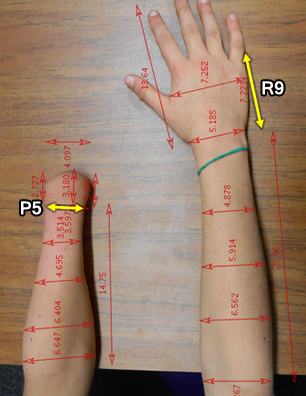
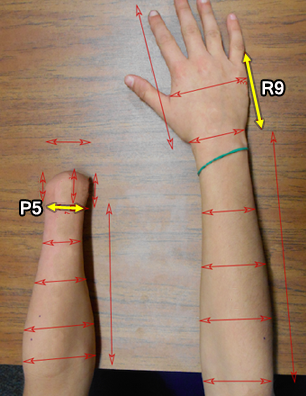
Removing all references of cm, changing to mm

diff --git a/index.php b/index.php
@@ -180,30 +180,30 @@ $html = <<<HTML
    <div class="tab-pane" id="left">
 
      <fieldset>
-     <div class="input-group"><span class="input-group-addon">L1</span> <input id="v_l1" type="number" step="any" min="0" name="Left1" value='{$_SESSION['Left1']}' id="a1" placeholder="Length of Elbow Joint" class="form-control"><span class="input-group-addon">cm</span></div>
-     <div class="input-group"><span class="input-group-addon">L2</span> <input id="v_l2" type="number" step="any" min="0" name="Left2" value='{$_SESSION['Left2']}'  placeholder="Distance between lateral and medial side of the forearm proximal to the elbow joint" class="form-control"><span class="input-group-addon">cm</span></div>
-     <div class="input-group"><span class="input-group-addon">L3</span> <input id="v_l3" type="number" step="any" min="0" name="Left3" value='{$_SESSION['Left3']}'  placeholder="Distance between lateral and medial side of the middle forearm" class="form-control"><span class="input-group-addon">cm</span></div>
-     <div class="input-group"><span class="input-group-addon">L4</span> <input id="v_l4" type="number" step="any" min="0" name="Left4" value='{$_SESSION['Left4']}'  placeholder="Distance between lateral and medial side of the forearm proximal to the wrist" class="form-control"><span class="input-group-addon">cm</span></div>
-     <div class="input-group"><span class="input-group-addon">L5</span> <input id="v_l5" type="number" step="any" min="0" name="Left5" value='{$_SESSION['Left5']}'  placeholder="Wrist Joint distance from lateral to medial side" class="form-control"><span class="input-group-addon">cm</span></div>
-     <div class="input-group"><span class="input-group-addon">L6</span> <input id="v_l6" type="number" step="any" min="0" name="Left6" value='{$_SESSION['Left6']}'  placeholder="Distance from wrist to distal end of finger on thumb side (Lateral)" class="form-control"><span class="input-group-addon">cm</span></div>
-     <div class="input-group"><span class="input-group-addon">L7</span> <input id="v_l7" type="number" step="any" min="0" name="Left7" value='{$_SESSION['Left7']}'  placeholder="Distance from wrist to distal middle end of effected hand" class="form-control"><span class="input-group-addon">cm</span></div>
-     <div class="input-group"><span class="input-group-addon">L8</span> <input id="v_l8" type="number" step="any" min="0" name="Left8" value='{$_SESSION['Left8']}'  placeholder="Distance from Lateral and Medial sides of the distal part of the hand" class="form-control"><span class="input-group-addon">cm</span></div>
-     <div class="input-group"><span class="input-group-addon">L9</span> <input id="v_l9" type="number" step="any" min="0" name="Left9" value='{$_SESSION['Left9']}'  placeholder="Distance from wrist to proximal end of 1st phalange on pinky side (Medial)" class="form-control"><span class="input-group-addon">cm</span></div>
-     <div class="input-group"><span class="input-group-addon">L10</span> <input id="v_l10" type="number" step="any" min="0" name="Left10" value='{$_SESSION['Left10']}'  placeholder="Length of Elbow to wrist joint" class="form-control"><span class="input-group-addon">cm</span></div>
+     <div class="input-group"><span class="input-group-addon">L1</span> <input id="v_l1" type="number" step="any" min="0" name="Left1" value='{$_SESSION['Left1']}' id="a1" placeholder="Length of Elbow Joint" class="form-control"><span class="input-group-addon">mm</span></div>
+     <div class="input-group"><span class="input-group-addon">L2</span> <input id="v_l2" type="number" step="any" min="0" name="Left2" value='{$_SESSION['Left2']}'  placeholder="Distance between lateral and medial side of the forearm proximal to the elbow joint" class="form-control"><span class="input-group-addon">mm</span></div>
+     <div class="input-group"><span class="input-group-addon">L3</span> <input id="v_l3" type="number" step="any" min="0" name="Left3" value='{$_SESSION['Left3']}'  placeholder="Distance between lateral and medial side of the middle forearm" class="form-control"><span class="input-group-addon">mm</span></div>
+     <div class="input-group"><span class="input-group-addon">L4</span> <input id="v_l4" type="number" step="any" min="0" name="Left4" value='{$_SESSION['Left4']}'  placeholder="Distance between lateral and medial side of the forearm proximal to the wrist" class="form-control"><span class="input-group-addon">mm</span></div>
+     <div class="input-group"><span class="input-group-addon">L5</span> <input id="v_l5" type="number" step="any" min="0" name="Left5" value='{$_SESSION['Left5']}'  placeholder="Wrist Joint distance from lateral to medial side" class="form-control"><span class="input-group-addon">mm</span></div>
+     <div class="input-group"><span class="input-group-addon">L6</span> <input id="v_l6" type="number" step="any" min="0" name="Left6" value='{$_SESSION['Left6']}'  placeholder="Distance from wrist to distal end of finger on thumb side (Lateral)" class="form-control"><span class="input-group-addon">mm</span></div>
+     <div class="input-group"><span class="input-group-addon">L7</span> <input id="v_l7" type="number" step="any" min="0" name="Left7" value='{$_SESSION['Left7']}'  placeholder="Distance from wrist to distal middle end of effected hand" class="form-control"><span class="input-group-addon">mm</span></div>
+     <div class="input-group"><span class="input-group-addon">L8</span> <input id="v_l8" type="number" step="any" min="0" name="Left8" value='{$_SESSION['Left8']}'  placeholder="Distance from Lateral and Medial sides of the distal part of the hand" class="form-control"><span class="input-group-addon">mm</span></div>
+     <div class="input-group"><span class="input-group-addon">L9</span> <input id="v_l9" type="number" step="any" min="0" name="Left9" value='{$_SESSION['Left9']}'  placeholder="Distance from wrist to proximal end of 1st phalange on pinky side (Medial)" class="form-control"><span class="input-group-addon">mm</span></div>
+     <div class="input-group"><span class="input-group-addon">L10</span> <input id="v_l10" type="number" step="any" min="0" name="Left10" value='{$_SESSION['Left10']}'  placeholder="Length of Elbow to wrist joint" class="form-control"><span class="input-group-addon">mm</span></div>
     </fieldset>
    </div>
    <div class="tab-pane" id="right">
     <fieldset>
-     <div class="input-group"><span class="input-group-addon">R1</span> <input id="v_r1" type="number" step="any" min="0" name="Right1" value='{$_SESSION['Right1']}'  placeholder="Length of Elbow Joint" class="form-control"><span class="input-group-addon">cm</span></div>
-     <div class="input-group"><span class="input-group-addon">R2</span> <input id="v_r2" type="number" step="any" min="0" name="Right2" value='{$_SESSION['Right2']}'  placeholder="Distance between lateral and medial side of the forearm proximal to the elbow joint" class="form-control"><span class="input-group-addon">cm</span></div>
-     <div class="input-group"><span class="input-group-addon">R3</span> <input id="v_r3" type="number" step="any" min="0" name="Right3" value='{$_SESSION['Right3']}'  placeholder="Distance between lateral and medial side of the middle forearm" class="form-control"><span class="input-group-addon">cm</span></div>
-     <div class="input-group"><span class="input-group-addon">R4</span> <input id="v_r4" type="number" step="any" min="0" name="Right4" value='{$_SESSION['Right4']}'  placeholder="Distance between lateral and medial side of the forearm proximal to the wrist" class="form-control"><span class="input-group-addon">cm</span></div>
-      <div class="input-group"><span class="input-group-addon">R5</span> <input id="v_r5" type="number" step="any" min="0" name="Right5" value='{$_SESSION['Right5']}'  placeholder="Wrist Joint distance from lateral to medial side" class="form-control"><span class="input-group-addon">cm</span></div>
-      <div class="input-group"><span class="input-group-addon">R6</span> <input id="v_r6" type="number" step="any" min="0" name="Right6" value='{$_SESSION['Right6']}'  placeholder="Distance from wrist to distal end of finger on thumb side (Lateral)" class="form-control"><span class="input-group-addon">cm</span></div>
-      <div class="input-group"><span class="input-group-addon">R7</span> <input id="v_r7" type="number" step="any" min="0" name="Right7" value='{$_SESSION['Right7']}'  placeholder="Distance from wrist to distal middle end of effected hand" class="form-control"><span class="input-group-addon">cm</span></div>
-      <div class="input-group"><span class="input-group-addon">R8</span> <input id="v_r8" type="number" step="any" min="0" name="Right8" value='{$_SESSION['Right8']}'  placeholder="Distance from Lateral and Medial sides of the distal part of the hand" class="form-control"><span class="input-group-addon">cm</span></div>
-      <div class="input-group"><span class="input-group-addon">R9</span> <input id="v_r9" type="number" step="any" min="0" name="Right9" value='{$_SESSION['Right9']}'  placeholder="Distance from wrist to proximal end of 1st phalange on pinky side (Medial)" class="form-control"><span class="input-group-addon">cm</span></div>
-     <div class="input-group"><span class="input-group-addon">R10</span> <input id="v_r10" type="number" step="any" min="0" name="Right10" value='{$_SESSION['Right10']}'  placeholder="Length of Elbow to wrist joint" class="form-control"><span class="input-group-addon">cm</span></div>
+     <div class="input-group"><span class="input-group-addon">R1</span> <input id="v_r1" type="number" step="any" min="0" name="Right1" value='{$_SESSION['Right1']}'  placeholder="Length of Elbow Joint" class="form-control"><span class="input-group-addon">mm</span></div>
+     <div class="input-group"><span class="input-group-addon">R2</span> <input id="v_r2" type="number" step="any" min="0" name="Right2" value='{$_SESSION['Right2']}'  placeholder="Distance between lateral and medial side of the forearm proximal to the elbow joint" class="form-control"><span class="input-group-addon">mm</span></div>
+     <div class="input-group"><span class="input-group-addon">R3</span> <input id="v_r3" type="number" step="any" min="0" name="Right3" value='{$_SESSION['Right3']}'  placeholder="Distance between lateral and medial side of the middle forearm" class="form-control"><span class="input-group-addon">mm</span></div>
+     <div class="input-group"><span class="input-group-addon">R4</span> <input id="v_r4" type="number" step="any" min="0" name="Right4" value='{$_SESSION['Right4']}'  placeholder="Distance between lateral and medial side of the forearm proximal to the wrist" class="form-control"><span class="input-group-addon">mm</span></div>
+      <div class="input-group"><span class="input-group-addon">R5</span> <input id="v_r5" type="number" step="any" min="0" name="Right5" value='{$_SESSION['Right5']}'  placeholder="Wrist Joint distance from lateral to medial side" class="form-control"><span class="input-group-addon">mm</span></div>
+      <div class="input-group"><span class="input-group-addon">R6</span> <input id="v_r6" type="number" step="any" min="0" name="Right6" value='{$_SESSION['Right6']}'  placeholder="Distance from wrist to distal end of finger on thumb side (Lateral)" class="form-control"><span class="input-group-addon">mm</span></div>
+      <div class="input-group"><span class="input-group-addon">R7</span> <input id="v_r7" type="number" step="any" min="0" name="Right7" value='{$_SESSION['Right7']}'  placeholder="Distance from wrist to distal middle end of effected hand" class="form-control"><span class="input-group-addon">mm</span></div>
+      <div class="input-group"><span class="input-group-addon">R8</span> <input id="v_r8" type="number" step="any" min="0" name="Right8" value='{$_SESSION['Right8']}'  placeholder="Distance from Lateral and Medial sides of the distal part of the hand" class="form-control"><span class="input-group-addon">mm</span></div>
+      <div class="input-group"><span class="input-group-addon">R9</span> <input id="v_r9" type="number" step="any" min="0" name="Right9" value='{$_SESSION['Right9']}'  placeholder="Distance from wrist to proximal end of 1st phalange on pinky side (Medial)" class="form-control"><span class="input-group-addon">mm</span></div>
+     <div class="input-group"><span class="input-group-addon">R10</span> <input id="v_r10" type="number" step="any" min="0" name="Right10" value='{$_SESSION['Right10']}'  placeholder="Length of Elbow to wrist joint" class="form-control"><span class="input-group-addon">mm</span></div>
     </fieldset>
    </div>
 
@@ -229,13 +229,13 @@ $html = <<<HTML
      <input id="v_r10" type="hidden" step="any" min="0" name="Right10" value='{$_SESSION['Right10']}'>
 
 
-     <div class="input-group"><span class="input-group-addon">P5</span> <input id="v_l5" type="number" step="any" min="0" name="Left5" value='{$_SESSION['Left5']}'  placeholder="Wrist Joint distance from lateral to medial side" class="form-control"><span class="input-group-addon">cm</span></div>
-     <div class="input-group"><span class="input-group-addon">P5</span> <input id="v_r5" type="number" step="any" min="0" name="Right5" value='{$_SESSION['Right5']}'  placeholder="Wrist Joint distance from lateral to medial side" class="form-control"><span class="input-group-addon">cm</span></div>
+     <div class="input-group"><span class="input-group-addon">P5</span> <input id="v_l5" type="number" step="any" min="0" name="Left5" value='{$_SESSION['Left5']}'  placeholder="Wrist Joint distance from lateral to medial side" class="form-control"><span class="input-group-addon">mm</span></div>
+     <div class="input-group"><span class="input-group-addon">P5</span> <input id="v_r5" type="number" step="any" min="0" name="Right5" value='{$_SESSION['Right5']}'  placeholder="Wrist Joint distance from lateral to medial side" class="form-control"><span class="input-group-addon">mm</span></div>
      Wrist Joint distance from lateral to medial side<br/><br/>
 
-     <div class="input-group"><span class="input-group-addon">L9</span> <input id="v_l9" type="number" step="any" min="0" name="Left9" value='{$_SESSION['Left9']}'  placeholder="Distance from wrist to proximal end of 1st phalange on pinky side (Medial)" class="form-control"><span class="input-group-addon">cm</span></div>
+     <div class="input-group"><span class="input-group-addon">L9</span> <input id="v_l9" type="number" step="any" min="0" name="Left9" value='{$_SESSION['Left9']}'  placeholder="Distance from wrist to proximal end of 1st phalange on pinky side (Medial)" class="form-control"><span class="input-group-addon">mm</span></div>
 
-     <div class="input-group"><span class="input-group-addon">R9</span><input id="v_r9" type="number" step="any" min="0" name="Right9" value='{$_SESSION['Right9']}'  placeholder="Distance from wrist to proximal end of 1st phalange on pinky side (Medial)" class="form-control"><span class="input-group-addon">cm</span></div>
+     <div class="input-group"><span class="input-group-addon">R9</span><input id="v_r9" type="number" step="any" min="0" name="Right9" value='{$_SESSION['Right9']}'  placeholder="Distance from wrist to proximal end of 1st phalange on pinky side (Medial)" class="form-control"><span class="input-group-addon">mm</span></div>
      Distance from wrist to proximal end of 1st phalange on pinky side (Medial)<br/>
     </fieldset>
    </div>
